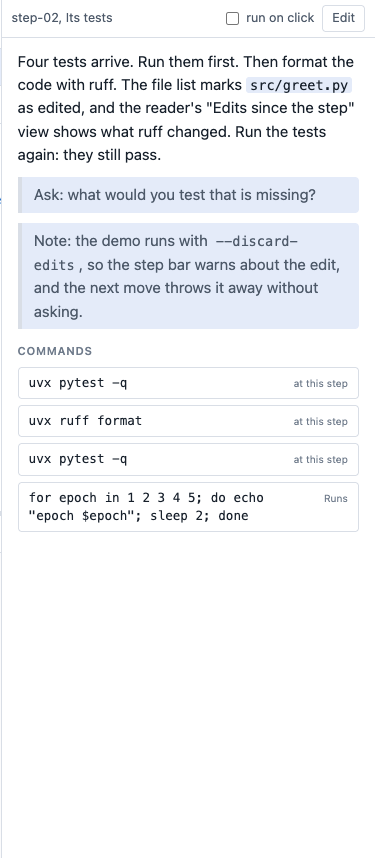
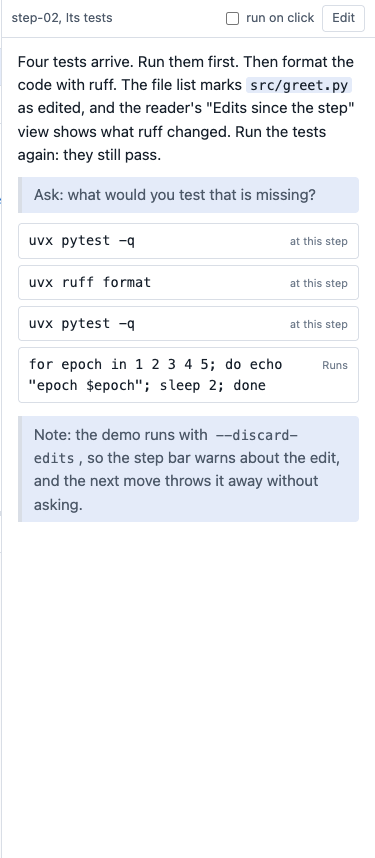
timewalk 1.0.3: the notes column keeps prose and commands in file order
The notes column showed all the prose first and every command at the
bottom, so a step that explains, runs, and explains again lost its
order. The server now sends each step as ordered parts, and the page
draws each command as a button where the notes have it. A $ line inside
a fenced code block is code, not a command, on the page and in the PDF.
The docs pin v1.0.3.

Coded using Claude

Changed region(s): [[0.0293, 0.2424, 0.968, 0.6364]]

diff --git a/src/timewalk/static/app.js b/src/timewalk/static/app.js
@@ -600,27 +600,44 @@ function drawNotes() {
   const mine = here ? ui.notes[here.name] : null;
   $("notes-title").textContent = here ? `${here.name}, ${mine?.title || here.subject}` : "between steps";
   $("notes-edit").hidden = !!ui.editing || !here;
-  if (mine?.text) $("notes").innerHTML = renderMarkdown(mine.text);
-  else $("notes").innerHTML = `<p class="p-empty">${ui.notesPath
-    ? `No notes for ${escapeHtml(here?.name || "this step")} in ${escapeHtml(ui.notesPath)}. Add a section headed "## ${escapeHtml(here?.name || "step-name")}".`
-    : "No notes file. Start timewalk with --notes notes.md, with one \"## step-name\" section per step."}</p>`;
-  const commands = $("commands");
-  commands.replaceChildren();
-  for (const command of mine?.commands || []) {
-    const button = document.createElement("button");
-    const text = document.createElement("span");
-    text.textContent = command.text;
-    const track = document.createElement("span");
-    track.className = "track";
-    const extra = /^runs([2-9])$/.exec(command.track);
-    track.textContent = extra ? `Runs ${extra[1]}` : { main: "Main", runs: "Runs" }[command.track] || "at this step";
-    button.append(text, track);
-    button.title = "Types this into that terminal. With run on click, it also presses Enter";
-    button.onclick = () => api("/api/type", { track: command.track, text: command.text, enter: $("run-on-click").checked, from: PAGE })
-      .catch((error) => showNotice(error.message, true));
-    commands.append(button);
+  // The prose and the commands, in the order of the notes file: each command is a button where it is written.
+  const box = $("notes");
+  box.replaceChildren();
+  let group = null;   // the buttons of a run of commands, one after another in the file
+  for (const part of mine?.parts || []) {
+    if (part.kind === "text") {
+      const prose = document.createElement("div");
+      prose.innerHTML = renderMarkdown(part.text);
+      box.append(prose);
+      group = null;
+      continue;
+    }
+    if (!group) {
+      group = document.createElement("div");
+      group.className = "p-commands";
+      box.append(group);
+    }
+    group.append(commandButton(part));
   }
-  if (!commands.children.length) commands.innerHTML = `<span class="p-empty">None. In the notes, "$ " starts a command at this step, "runs$ " one for the Runs tab, "main$ " one in Main.</span>`;
+  if (!box.children.length) box.innerHTML = `<p class="p-empty">${!here ? "" : ui.notesPath
+    ? `No notes for ${escapeHtml(here.name)} in ${escapeHtml(ui.notesPath.split("/").pop())}. Click Edit to write them, or add a section headed "## ${escapeHtml(here.name)}".`
+    : "No notes file. Start timewalk with --notes notes.md, with one \"## step-name\" section per step."}</p>`;
+}
+
+/** One command of the notes, as a button that types it into its terminal, and runs it with run on click. */
+function commandButton(command) {
+  const button = document.createElement("button");
+  const text = document.createElement("span");
+  text.textContent = command.text;
+  const track = document.createElement("span");
+  track.className = "track";
+  const extra = /^runs([2-9])$/.exec(command.track);
+  track.textContent = extra ? `Runs ${extra[1]}` : { main: "Main", runs: "Runs" }[command.track] || "at this step";
+  button.append(text, track);
+  button.title = "Types this into that terminal. With run on click, it also presses Enter";
+  button.onclick = () => api("/api/type", { track: command.track, text: command.text, enter: $("run-on-click").checked, from: PAGE })
+    .catch((error) => showNotice(error.message, true));
+  return button;
 }
 
 function drawBand() {

diff --git a/src/timewalk/static/app.css b/src/timewalk/static/app.css
@@ -281,7 +281,7 @@ body.with-notes .notes-pane { grid-area: notes; }
 .p-notes blockquote { margin: 0 0 0.7em; padding: 0.4em 0.8em; background: var(--accent-soft); color: var(--ink-2); border-left: 4px solid var(--rule); border-radius: 0 4px 4px 0; }
 .p-notes blockquote p { margin: 0 0 0.4em; }
 .p-notes blockquote p:last-child { margin-bottom: 0; }
-.p-commands { display: flex; flex-direction: column; gap: 6px; }
+.p-commands { display: flex; flex-direction: column; gap: 6px; margin: 0.2em 0 0.9em; }
 .p-commands button { text-align: left; font-family: var(--mono); font-size: 0.9em; padding: 6px 10px; display: flex; gap: 8px; align-items: baseline; }
 .p-commands .track { font: 0.8em var(--sans); color: var(--ink-3); flex: none; margin-left: auto; }
 .p-empty { color: var(--ink-3); }

diff --git a/src/timewalk/static/index.html b/src/timewalk/static/index.html
@@ -110,8 +110,6 @@
     </div>
     <div class="notes-body" id="notes-body">
       <div id="notes" class="p-notes"></div>
-      <h2 class="notes-h">Commands</h2>
-      <div id="commands" class="p-commands"></div>
     </div>
   </aside>
 

diff --git a/src/timewalk/__init__.py b/src/timewalk/__init__.py
@@ -305,14 +305,18 @@ def parse_notes(
         main$ git log         a command for the terminal in the repository you started from
         > Say: ...            a cue; shown with the prose, set apart in its own shade
 
-    Every other line is prose, shown as written. `raw` keeps the section as written, below its heading, for editing.
+    Every other line is prose, shown as written. Inside a fenced code block every line is prose, so a `$ ` line
+    there is code to read, not a command. `parts` keeps the prose and the commands in the order of the file, so the
+    page can show each command where it is written. `raw` keeps the section as written, for editing.
     """
     notes: dict[str, dict] = {}
     current: dict | None = None
+    fence: str | None = None  # the fence character while inside a fenced code block, ` or ~
     for line in text.splitlines():
-        heading = re.match(r"^##\s+(\S+)", line)
+        mark = re.match(r"^\s*(```+|~~~+)", line)
+        heading = re.match(r"^##\s+(\S+)", line) if fence is None else None
         if heading:
-            current = notes.setdefault(heading.group(1), {"time": None, "commands": [], "text": [], "raw": []})
+            current = notes.setdefault(heading.group(1), {"time": None, "commands": [], "text": [], "raw": [], "parts": []})
             title = line[heading.end():].strip()
             if title:
                 current["title"] = title
@@ -320,17 +324,28 @@ def parse_notes(
         if current is None:
             continue
         current["raw"].append(line)
-        planned = re.match(r"^time:\s*(\d+):(\d\d)\s*$", line.strip())
-        command = re.match(r"^\s*(main|runs[2-9]?)?\$\s+(.+)$", line)
+        planned = re.match(r"^time:\s*(\d+):(\d\d)\s*$", line.strip()) if fence is None else None
+        command = re.match(r"^\s*(main|runs[2-9]?)?\$\s+(.+)$", line) if fence is None else None
+        if mark:
+            fence = mark.group(1)[0] if fence is None else (None if mark.group(1)[0] == fence else fence)
+        parts = current["parts"]
         if planned:
             current["time"] = int(planned.group(1)) * 60 + int(planned.group(2))
         elif command:
-            current["commands"].append({"track": command.group(1) or "replay", "text": command.group(2).strip()})
+            entry = {"track": command.group(1) or "replay", "text": command.group(2).strip()}
+            current["commands"].append(entry)
+            parts.append({"kind": "command", **entry})
         else:
             current["text"].append(line)
+            if parts and parts[-1]["kind"] == "text":
+                parts[-1]["text"] += "\n" + line
+            else:
+                parts.append({"kind": "text", "text": line})
     for entry in notes.values():
         entry["text"] = "\n".join(entry["text"]).strip()
         entry["raw"] = "\n".join(entry["raw"]).strip("\n")
+        entry["parts"] = [p for p in ({**p, "text": p["text"].strip("\n")} if p["kind"] == "text" else p for p in entry["parts"])
+                          if p["kind"] == "command" or p["text"].strip()]
     return notes
 
 

diff --git a/tests/test_timewalk.py b/tests/test_timewalk.py
@@ -403,6 +403,30 @@ def test_notes_are_read_per_step() -> None:
     assert notes["step-01"]["text"] == "- one\n- two"
 
 
+def test_notes_keep_prose_and_commands_in_order() -> None:
+    "The parts of a step keep the order of the file, so each command shows where it is written."
+    notes = timewalk.parse_notes("## step-00\ntime: 0:00\n\nFirst read this.\n\n$ ls\nruns$ just train\n\nThen this.\n\nmain$ git log\n")
+    assert [(p["kind"], p["text"]) for p in notes["step-00"]["parts"]] == [
+        ("text", "First read this."), ("command", "ls"), ("command", "just train"), ("text", "Then this."), ("command", "git log")]
+    assert [p.get("track") for p in notes["step-00"]["parts"] if p["kind"] == "command"] == ["replay", "runs", "main"]
+
+
+def test_a_dollar_line_in_a_code_block_is_code_not_a_command() -> None:
+    "Inside a fenced code block, a `$ ` line is code to read, and a `## ` line does not start a step."
+    notes = timewalk.parse_notes("## step-00\n\n```\n$ not a button\n## not a step\n```\n\n$ ls\n")
+    assert list(notes) == ["step-00"]
+    assert notes["step-00"]["commands"] == [{"track": "replay", "text": "ls"}]
+    assert notes["step-00"]["parts"][0] == {"kind": "text", "text": "```\n$ not a button\n## not a step\n```"}
+
+
+def test_the_pdf_keeps_a_code_block_of_the_notes_as_written() -> None:
+    "The PDF wraps command lines in code blocks, but leaves a code block that the notes already have."
+    from timewalk import slides_pdf
+
+    raw = "time: 0:01\nRead.\n\n```\n$ shown as code\n```\n\n$ ls\nMore."
+    assert slides_pdf.notes_markdown(raw) == "Read.\n\n```\n$ shown as code\n```\n\n```\n$ ls\n```\nMore."
+
+
 def test_slides_manifest(tmp_path: Path) -> None:
     "The manifest maps a step to its slides, in order; a missing manifest means no slides."
     manifest = tmp_path / "slides.toml"

diff --git a/src/timewalk/slides_pdf.py b/src/timewalk/slides_pdf.py
@@ -48,10 +48,14 @@ def notes_markdown(
     "Turn a section of the notes into Markdown to print: each run of command lines becomes one code block."
     out: list[str] = []
     block: list[str] = []
+    fence: str | None = None  # inside a fenced code block, a `$ ` line is code to read, and stays as written
     for line in raw.split("\n"):
-        if re.match(r"^time:\s*\d+:\d\d\s*$", line.strip()):
+        mark = re.match(r"^\s*(```+|~~~+)", line)
+        if mark:
+            fence = mark.group(1)[0] if fence is None else (None if mark.group(1)[0] == fence else fence)
+        elif fence is None and re.match(r"^time:\s*\d+:\d\d\s*$", line.strip()):
             continue
-        if COMMAND.match(line):
+        if fence is None and not mark and COMMAND.match(line):
             block.append(line.strip())
             continue
         if block:

diff --git a/docs/notes.md b/docs/notes.md
@@ -46,9 +46,13 @@ copy of the notes that you give to students.
 
 ## The notes column
 
-The top of the column shows the name of the step and the title from the notes. Below the prose, each
-command of the step has a button. A click on a button types the command into its terminal and brings that
-tab to the front in every window. The terminal in the window where you clicked gets the keyboard.
+The top of the column shows the name of the step and the title from the notes. Below it, the column
+shows the notes in the order of the file. Each command is a button at the place where the notes have it,
+between the prose around it. A click on a button types the command into its terminal and brings that tab
+to the front in every window. The terminal in the window where you clicked gets the keyboard.
+
+A `$ ` line inside a fenced code block is code to read, and not a command. Use a code block to show a
+command that the reader must not run from the page.
 
 By default, a click only types the command. The reader can look at the command, and then press Enter to
 run it. To run each command with one click, turn on **run on click** at the top of the column. The

diff --git a/README.md b/README.md
@@ -28,11 +28,11 @@ opens it. It prints one address. Open it on the projector and on your own screen
 On your own project, run timewalk straight from GitHub with uv. uv downloads it once and keeps it:
 
 ```
-uvx --from git+https://github.com/rahuldave/timewalk@v1.0.2 timewalk ~/code/project --notes notes.md --slides slides/slides.toml
+uvx --from git+https://github.com/rahuldave/timewalk@v1.0.3 timewalk ~/code/project --notes notes.md --slides slides/slides.toml
 ```
 
 To install the commands `timewalk` and `timewalk-pdf` for good, run
-`uv tool install git+https://github.com/rahuldave/timewalk@v1.0.2`.
+`uv tool install git+https://github.com/rahuldave/timewalk@v1.0.3`.
 
 By default, the steps are the tags that match `step-*`. The message of an annotated tag is the note that
 the audience sees. Keep the notes file outside the repository. timewalk refuses a notes file inside it.

diff --git a/CLAUDE.md b/CLAUDE.md
@@ -93,7 +93,7 @@ Rahul set these rules. Each rule has tests. Do not weaken them.
 timewalk is a package, `src/timewalk`, built with hatchling from `pyproject.toml`. It gives two commands,
 `timewalk` and `timewalk-pdf`. Its dependencies are Starlette, uvicorn, websockets, Playwright and pypdf;
 the tests use the `dev` group. In a clone, run `uv run timewalk`. Users run it from GitHub with
-`uvx --from git+https://github.com/rahuldave/timewalk@v1.0.2 timewalk`, so it is not on PyPI, by Rahul's choice. When a change must reach users,
+`uvx --from git+https://github.com/rahuldave/timewalk@v1.0.3 timewalk`, so it is not on PyPI, by Rahul's choice. When a change must reach users,
 raise the version in `pyproject.toml`, tag the commit `vX.Y.Z`, push the tag, and update the pin in the
 docs and in the kits.
 

diff --git a/docs/index.md b/docs/index.md
@@ -69,14 +69,14 @@ You do not need a clone of timewalk. uv can run timewalk straight from GitHub. I
 once, and keeps it in its cache:
 
 ```
-uvx --from git+https://github.com/rahuldave/timewalk@v1.0.2 timewalk ~/code/project --notes notes.md --slides slides/slides.toml
+uvx --from git+https://github.com/rahuldave/timewalk@v1.0.3 timewalk ~/code/project --notes notes.md --slides slides/slides.toml
 ```
 
 The part after `@` pins a version, so every machine runs the same timewalk. To install the commands
 `timewalk` and `timewalk-pdf` on your machine for good, run this command once:
 
 ```
-uv tool install git+https://github.com/rahuldave/timewalk@v1.0.2
+uv tool install git+https://github.com/rahuldave/timewalk@v1.0.3
 timewalk ~/code/project --notes notes.md --slides slides/slides.toml
 ```
 

diff --git a/docs/reference.md b/docs/reference.md
@@ -5,11 +5,11 @@
 Run timewalk from GitHub with uv, with no clone and no install:
 
 ```
-uvx --from git+https://github.com/rahuldave/timewalk@v1.0.2 timewalk [repo] [options]
-uvx --from git+https://github.com/rahuldave/timewalk@v1.0.2 timewalk-pdf [options]
+uvx --from git+https://github.com/rahuldave/timewalk@v1.0.3 timewalk [repo] [options]
+uvx --from git+https://github.com/rahuldave/timewalk@v1.0.3 timewalk-pdf [options]
 ```
 
-Or install the two commands once with `uv tool install git+https://github.com/rahuldave/timewalk@v1.0.2`. In a clone of timewalk, run them with
+Or install the two commands once with `uv tool install git+https://github.com/rahuldave/timewalk@v1.0.3`. In a clone of timewalk, run them with
 `uv run timewalk` and `uv run timewalk-pdf`.
 
 ## timewalk

diff --git a/docs/steps.md b/docs/steps.md
@@ -75,7 +75,7 @@ The `.gitignore` of the kit lists `repo/` and `worktree/`, so the names never ch
 `justfile` like this one runs timewalk from GitHub on the clone:
 
 ```just
-timewalk := "uvx --from git+https://github.com/rahuldave/timewalk@v1.0.2"
+timewalk := "uvx --from git+https://github.com/rahuldave/timewalk@v1.0.3"
 
 # Open the page on the project, with these notes and slides
 present *args:
